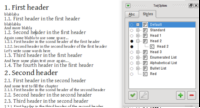
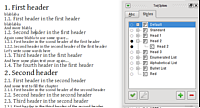
sharpen kword sshot; fix ugly lack of margins for images
git-svn-id: svn+ssh://svn.kde.org/home/kde/trunk/www/areas/koffice@854228 283d02a7-25f6-0310-bc7c-ecb5cbfe19da

diff --git a/announcements/announce-2.0alpha10.php b/announcements/announce-2.0alpha10.php
@@ -43,20 +43,24 @@
 <p align="justify">
 Fredy Yanardi and Thorsten Zachmann have worked on making KPresenter a presentation application again and have implemented different ways of viewing a set of slides.
 </p>
+<p>
 <center><a href="pics/2008_08_26_presenter_view_main.png"><img src="pics/2008_08_26_presenter_view_main_400x300.png" width="400" height="300" /></a></center>
+</p>
 
 <h3>KWord is about styles</h3>
 <p align="justify">
 Much work has been done on page, paragraph and character styles in KWord. There is a new, hierarchical style docker that makes selecting a style for your text a snap. And KWord, as well as all other KOffice applications, profits from the shape style docker that makes it easy select the foreground and background style of all shapes.
 </p>
-<center><img src="pics/2008_08_26_styles_treeview.png" width="400" height="238" /></center>
+<p>
+<center><img src="pics/2008_08_26_styles_treeview_400_216.png" width="400" height="216" /></center>
+</p>
 
 <h3>Ultimate drawing experience in Krita and Karbon </h3>
 <p align="justify">
 Lukas Tvrdy, helped by Boudewijn Rempt and a host of academic papers, has implemented a new brush engine for Krita, meant to simulate Chinese brush painting, but which turns out to be a great basis for all bristly painting materials. We were ourselves surprised when the French artist and Krita tester Enkhitan turned up with this work, entirely painted with the new brush engine:
 </p>
-<center><a href="pics/2008_08_26_sumi-e_coolness.jpg"><img src="pics/2008_08_26_sumi-e_coolness_400x300.jpg" width="579" height="313" /></a></center>
-
+<p><center><a href="pics/2008_08_26_sumi-e_coolness.jpg"><img src="pics/2008_08_26_sumi-e_coolness_400x300.jpg" width="400" height="300" /></a></center>
+</p>
 
 <h2>More Information</h2>
 <p align="justify">
